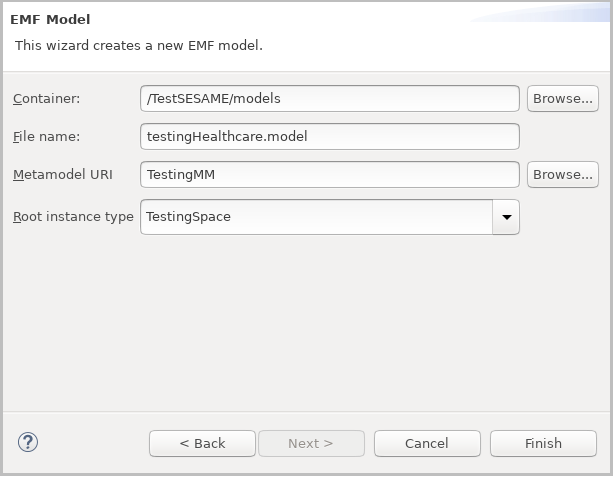
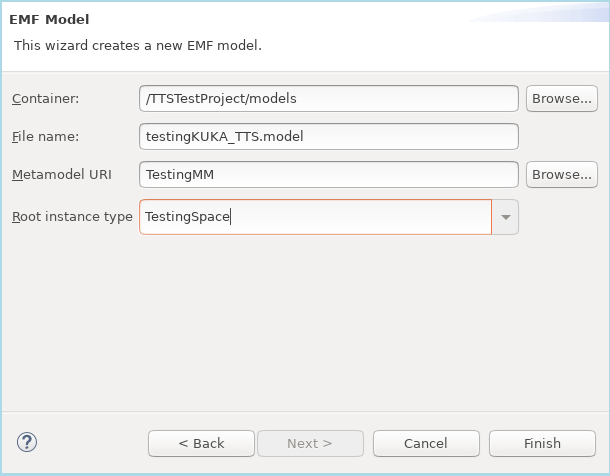
New figures

diff --git a/documentation/userguide.md b/documentation/userguide.md
@@ -17,13 +17,13 @@ In order to use the simulation-based testing platform, firstly, the
 user should load Eclipse and then invoke a new Eclipse Application, by
 right-clicking upon the project
 **uk.ac.york.sesame.testing.generator** and selecting *Run As* /
-*Eclipse Application*. This will launch a fresh Eclipse instance
-under which the SESAME automated code generation plugins are available
-(Figure \ref{FIG-RUN-GENERATOR-PROJECT}). (If there is a problem
-flagged regarding ``javax.xml.bind'', ignore it). There may be a delay
-on the first invocation of this.
+*Eclipse Application*. This will launch a fresh Eclipse instance under
+which the SESAME automated code generation plugins are available:
 
 ![Starting a Child Eclipse by running the generator project](./readme-images/run-generator-project.png)
+
+(If there is a problem flagged regarding ``javax.xml.bind'', ignore
+it). There may be a delay on the first invocation of this.
 
 ## Creating New Project
 
@@ -42,8 +42,10 @@ below. Then, click Cancel on the dialog box that appears.
 ## Initial Model Creation
 Next, create an instance of the testing metamodel. To do this, right
 click on the folder ``models'' and select ``New'' / ``Other'' /
-``Epsilon'' / ``EMF Model'' and set up the parameters as shown in
-Figure~\ref{FIG-NEW-MODEL-GENERATION}. Use ``Browse'' to find
+``Epsilon'' / ``EMF Model'' and set up the parameters as shown below: 
+![Screenshot for creating a new empty model](./readme-images/new-model-generation.png)
+
+Use ``Browse'' to find
 ``TestingMM'' as the metamodel URI. The model filename can be chosen
 to fit the scenario that the users are setting up.
 
